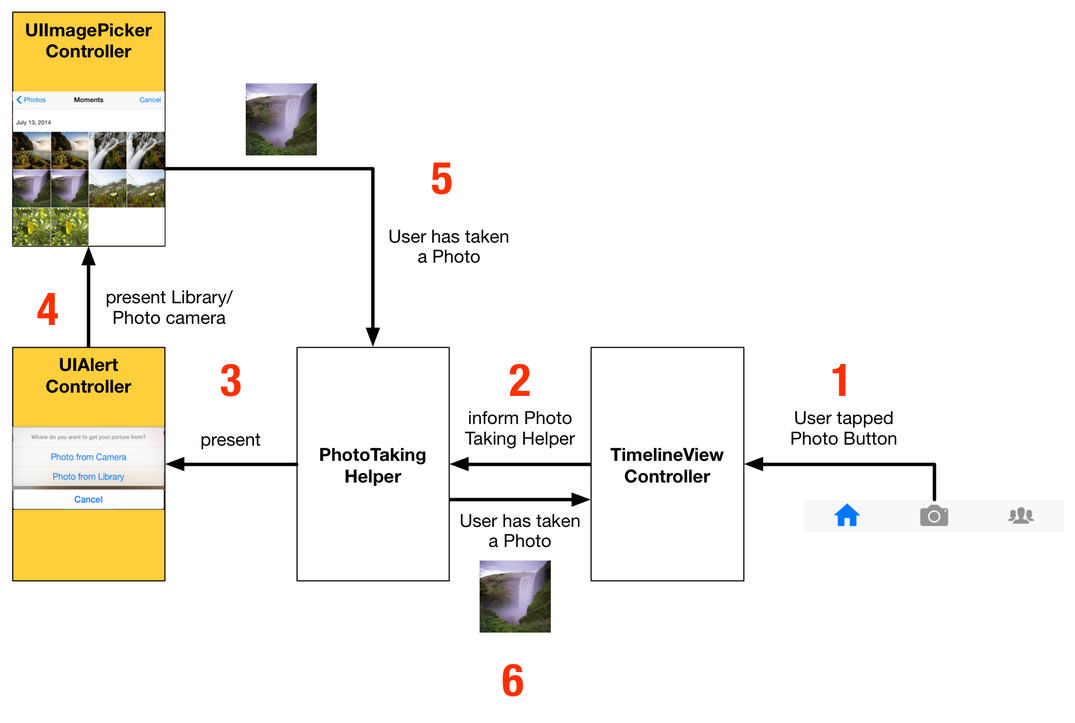
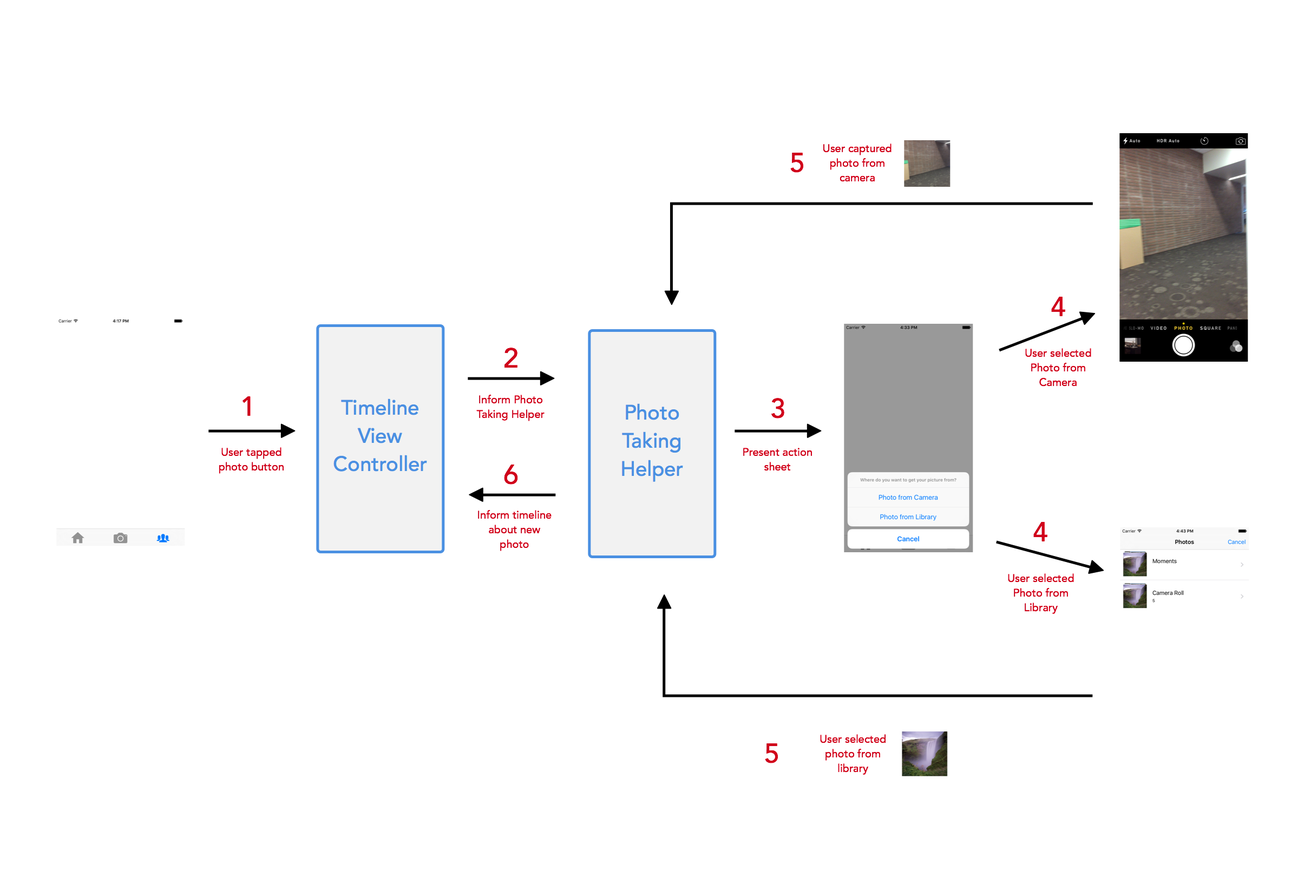
[P7] Update to Xcode7, moderate content reorganization, minor style changes
* remake photo_taking_structure.png
* refocus the 'Structuring the Photo Code' section
* add 'Maintaining Project Structure' section (goal was to make things more modular and have a clear focus)
* change 'Table View' to 'table view'

diff --git a/P7-Taking-Photos/content.md b/P7-Taking-Photos/content.md
@@ -3,18 +3,19 @@ title: "Taking Photos"
 slug: taking-photos
 ---
 
-It's time to implement our very first feature: uploading Photos to Parse! In our App we want to allow the users to upload or take a photo as soon as they tap the camera button in the middle of the Tab Bar.
+It's time to implement our very first feature: uploading photos to Parse! In **Makestagram**, we want to allow the users to upload or take a photo as soon as they tap the camera button in the middle of the tab bar.
 
-Typically a Tab Bar View Controller only allows a user to switch between different View Controllers. We don't want to switch to a View Controller when the button is tapped, instead we want to show an Action Dialog that lets the user take or select a picture:
+Typically a tab bar view controller only allows a user to switch between different view controllers; however, we don't want to switch to a view controller when the button is tapped, instead we want to show an action dialog that lets the user take or select a picture:
 
 ![image](taking_photo.png)
 
-Unfortunately, using a Tab Bar View Controller, we cannot **easily** perform an arbitrary method when one of the Tab Bar Items is selected.
+Unfortunately, using a tab bar view controller, we cannot *easily* perform an arbitrary method when one of the tab bar items is selected.
 
 However, there's a **workaround**.
 
 #Using a Tab Bar Item Like a Button
-Essentially we want to use the Photo Tab Bar Item like a button. When it is tapped we want to call a method to present dialog shown above.
+
+Essentially we want to use the photo tab bar item like a button. When it is tapped, we want to call a method to present the dialog shown above.
 
 One of the ways to accomplish this is to make use of the `UITabBarControllerDelegate` protocol.
 
@@ -24,7 +25,7 @@ That protocol contains a method that is interesting for us:
 
 You can read the full documentation of the method [here](https://developer.apple.com/library/ios/documentation/UIKit/Reference/UITabBarControllerDelegate_Protocol/#//apple_ref/occ/intfm/UITabBarControllerDelegate/tabBarController:shouldSelectViewController:).
 
-Using this method, the Tab Bar View Controller asks its delegate whether or not it should present the View Controller that belongs to the Tab Bar Item that a user just tapped.
+Using this method, the tab bar view controller asks its delegate whether or not it should present the view controller that belongs to the tab bar item that the user just tapped.
 
 **Can you imagine how we could use this method to accomplish our goal?**
 
@@ -33,7 +34,7 @@ One of our classes can become the `delegate` of the `UITabBarViewController` and
 
 Let's implement this solution!
 
-The `TimelineViewController` will be the main View Controller of our app. When a user opens the App, the timeline will be displayed first.
+The `TimelineViewController` will be the main view controller in **Makestagram**. When a user opens the App, the timeline will be displayed first.
 
 That means we can use the `TimelineViewController` as the delegate for the `UITabBarViewController`.
 
@@ -63,7 +64,7 @@ Replace the entire source code in `TimelineViewController.swift` with the follow
 >
       func tabBarController(tabBarController: UITabBarController, shouldSelectViewController viewController: UIViewController) -> Bool {
         if (viewController is PhotoViewController) {
-          println("Take Photo")
+          print("Take Photo")
           return false
         } else {
           return true
@@ -72,36 +73,51 @@ Replace the entire source code in `TimelineViewController.swift` with the follow
 >
     }
 
-What are we doing here? In `viewDidLoad` we are setting the `TimelineViewController` to be the `tabBarController`s delegate. Every `UIViewController` in iOS has the `tabBarController?` property; if the View Controller is presented from a `UITabBarViewController` (as it's the case in our app), this property will store a reference to it.
+What are we doing here? In `viewDidLoad` we are setting the `TimelineViewController` to be the delegate of the `tabBarController`. Every `UIViewController` (which includes all subclasses) in iOS has the `tabBarController?` property; if the view controller is presented from a `UITabBarViewController` (as is the case in **Makestagram**), this property will store a reference to it.
 
 In the second part of this solution, after:
 
     // MARK: Tab Bar Delegate
 
-we implement the relevant protocol method. The protocol method requires us to return a boolean value. If we return `true` the Tab Bar View Controller will behave as usual and present the View Controller that the user has selected. If we return `false` the View Controller will not be displayed and the Tab Bar Item will not be selected - exactly the behavior that we want for the Photo Tab Bar Item.
+we implement the relevant protocol method. The protocol method requires us to return a boolean value. If we return `true` the tab bar will behave as usual and present the view controller that the user has selected. If we return `false` the view controller will not be displayed - exactly the behavior that we want for the Photo Tab Bar Item.
 
-Within the method we check which View Controller is about to be selected.  If the View Controller is a `PhotoViewController` we return `false` and print "Take Photo" to the console. Later we'll replace this line with the actual photo taking code.
+Within the protocol method, we check which view controller is about to be selected.  If the view controller is a `PhotoViewController` we return `false` and print "Take Photo" to the console. Later we'll replace this line with the actual photo taking code.
 
-If the View Controller **isn't** a `PhotoViewController`, we return `true` and let the Tab Bar Controller behave as usual.
+If the view controller **isn't** a `PhotoViewController`, we return `true` and let the tab bar controller behave as usual.
 
 With this code in place, it's time to run the app. You should see the same behavior as in this video:
 
 <video width="100%" controls>
   <source src="https://s3.amazonaws.com/mgwu-misc/SA2015/PhotoButton_small.mov" type="video/mp4">
 
-When you tap the left or the right Tab Bar Item, they are selected. When you tap the middle button, you see our console output instead!
+When you tap the left or the right tab bar item, they are selected. When you tap the middle button, you see our console output instead!
 
 Now we can replace this console output with our actual photo taking code!
 
-#Structuring the Photo Taking Code
+#Structuring the Photo Code
 
-Taking photos is one of the core features of our app! We allow users to take photos with the camera and to pick existing photos from their library. Additionally we will allow users to add filters to their photos.
+Recall from our *Setting Up the App Structure* tutorial that, after deciding on our app's features, we outlined our app's screens and explicitly defined how screens would be connected. In a similar fashion, before diving into the photo code, let's think about what specific photo related features we want to offer and how they will be structured.
 
-As you'll see, implementing this takes quite a bit of code. Instead of putting all of that code into the `TimelineViewController` we should create a separate class that only takes care of photo related features.
+Regarding features, as **Makestagram** is a photo sharing app, users should be able to either upload photos from their existing photo library or capture new photos with the built-in camera.
 
-Keep this in mind when working on your own app: *implementing all of your features directly in a View Controller is the first step towards an extremely messy project!*
+Regarding structure, let's discuss the process, step-by-step:
 
-Before we create that new photo taking class, let's create a new folder for it to keep our project structure tidy.
+![image](photo_taking_structure.png)
+
+1. The user taps the camera button, which triggers an event in the `TimelineViewController`. (Currently, we are logging "Take Photo" to the console during this step.)
+2. The `TimelineViewController` notifies a helper class, called `PhotoTakingHelper`, that the camera button was pressed. (We use the `PhotoTakingHelper` to handle all of our photo related features to help make our code more modular and easier to read.)
+3. The `PhotoTakingHelper` presents the popover that allows the user to choose between taking a photo with the camera or picking one from the library. (The popover is implemented as a `UIAlertController`, a standard iOS component.)
+4. Once the user has selected one of the two options, we present a `UIImagePickerController`, another standard iOS component. (The `UIImagePickerController` handles the actual image picking - either by letting the user take a picture, or by letting them pick one from their library)
+5. Once the user is finished, the selected image gets returned to the `PhotoTakingHelper`
+6. The `PhotoTakingHelper` notifies the `TimelineViewController` that a photo has been picked, and returns the image to the `TimelineViewController`.
+
+As you can see, there are many steps to getting our photo features up and running. If we skipped diagramming our structure, and went straight to coding, we would probably make the mistake of putting all of our code into the `TimelineViewController` or `PhotoViewController`, which would lead to an *extremely messy project*!
+
+When working on your own apps, remember to use helper classes to handle distinct features. For instance, a `PhotoTakingHelper` to handle all image capturing or a `MicrophoneRecordingHelper` to record all sound from the microphone.
+
+#Maintaining Project Structure
+
+Before we jump into implementing our photo code, let's create a new folder for our `PhotoTakingHelper` class to keep our project structure tidy.
 
 > [action]
 Open the folder that contains your Xcode project in Finder: and create a new folder called *PhotoTaking*. It should be on the same level as the *ViewController* folder:
@@ -111,41 +127,28 @@ Then add this new folder to your Xcode project:
 <video width="100%" controls>
   <source src="https://s3.amazonaws.com/mgwu-misc/SA2015/AddPhotoFolder_small.mov" type="video/mp4">
 
-You should always add new folders with this two-step process. If you create a new group directly in Xcode, that will not automatically create a new folder on your file system. That results in Xcode projects that have a structure that is different from the folder structure - another potential way of creating messy projects.
+You should always add new folders with this two-step process. If you create a new group directly in Xcode, it will not automatically create a new folder on your file system. That results in Xcode projects that have a structure that is different from the folder structure - another potential way of creating messy projects.
 
-Now we can add our new Source Code File to the *PhotoTaking* group.
+We can now add our new source code file to the *PhotoTaking* group.
 
 > [action]
 >
-1. Create a new Source Code File within the *PhotoTaking* group
+1. Create a new source code file within the *PhotoTaking* group
 2. Name this class *PhotoTakingHelper* and make it a subclass of *NSObject* (we will discuss why this is necessary later on): ![](photo_taking_helper_class.png)
 
-Before we dive into writing code, let's discuss how we're going to structure our Photo Taking code.
-
-There are multiple classes and steps involved in taking a photo:
-![image](photo_taking_structure.png)
-
-Let's discuss the process, step by step:
-
-1. The photo taking starts when a user taps the photo button in the Tab Bar. This triggers an event in the `TimelineViewController`. We have already implemented this step; currently we are logging "Take Photo" to the console.
-2. The `TimelineViewController` creates a `PhotoTakingHelper`. The `PhotoTakingHelper` will handle the rest of the process and return a photo to the `TimelineViewController` once the user has picked one (this happens in Step 6).
-3. The `PhotoTakingHelper` presents the popover that allows the user to choose between taking a photo with the camera or picking one from the library. This popover is implemented as a `UIAlertController` - an iOS standard component.
-4. Once the user has selected one of the two options, we present a `UIImagePickerController` another iOS system component. This `UIImagePickerController` handles the actual image picking (either by letting the user take a picture, or by letting them pick one from their library)
-5. Once the user is finished, the selected image gets returned to the `PhotoTakingHelper`
-6. The `PhotoTakingHelper` returns that image to the `TimelineViewController`.
-
-Now that we have a plan, we can start implementing this feature!
+Now that we have a plan and a place to put our code, let's start implementing this feature!
 
 ##Implementing the PhotoTakingHelper
 
-Our `PhotoTakingHelper` will have two main responsibilities:
+Our `PhotoTakingHelper` will have three main responsibilities:
 
-1. Presenting the Popover and the Camera / Photo Library
-2. Returning the image that the user has taken / selected
+1. Presenting the popover to allow the user to choose between taking a new photo or selecting one from the photo library
+2. Depending on the user's selection, presenting the camera or photo library
+2. Returning the image that the user has taken or selected
 
-To implement the first responsibility the `PhotoTakingHelper` will need a reference to a `UIViewController`. In iOS only View Controllers can present other View Controllers. The `PhotoTakingHelper` is a simple `NSObject` not a `UIViewController`, so it isn't able to present other View Controllers. We will implement the initializer of the `PhotoTakingHelper` to require a reference to a `UIViewController`.
+The first and second responsibilities of the `PhotoTakingHelper` require it to present a `UIAlertController` and 'UIImagePickerController', respectively. However, in iOS, only view controllers can present other view controllers, and the `PhotoTakingHelper` is a simple `NSObject`, not a `UIViewController`. To enable view controller presentation inside the `PhotoTakingHelper` class, we will implement the initializer of the `PhotoTakingHelper` to require a reference to a `UIViewController`.
 
-To implement the second responsibility the `PhotoTakingHelper` will need to have a way to communicate with the `TimelineViewController` - as shown in Step 6 of our outline above. For this we could use the concept of delegation (on the previous page we used delegation to receive information from the `UITabBarController`). A more convenient solution for this specific case is using a *Callback*. A *Callback* is basically a reference to a function. When initializing the `PhotoTakingHelper` inside of the *TimelineViewController* we will provide it with a callback function. As soon as the `PhotoTakingHelper` has selected an image, it will call that *Callback* function and provide the selected image to the *TimelineViewController*.
+To implement the third responsibility of the `PhotoTakingHelper` we will need to have a way to communicate with the `TimelineViewController` - as shown in Step 6 of our outline above. For this we could use the concept of delegation (on the previous page we used delegation to receive information from the `UITabBarController`). A more convenient solution for this specific case is using a *Callback*. A *Callback* is basically a reference to a function. When initializing the `PhotoTakingHelper` inside of the *TimelineViewController* we will provide it with a callback function. As soon as the `PhotoTakingHelper` has selected an image, it will call that *Callback* function and provide the selected image to the *TimelineViewController*.
 
 Let's get started with building the `PhotoTakingHelper`!
 
@@ -162,7 +165,7 @@ Replace the entire content of `PhotoTakingHelper.swift` with the following code:
 >
     class PhotoTakingHelper : NSObject {
 >
-      /** View controller on which AlertViewController and UIImagePickerController are presented */
+      // View controller on which AlertViewController and UIImagePickerController are presented
       weak var viewController: UIViewController!
       var callback: PhotoTakingHelperCallback
       var imagePickerController: UIImagePickerController?
@@ -182,15 +185,15 @@ Replace the entire content of `PhotoTakingHelper.swift` with the following code:
 >
     }
 
-Let's discuss this code. In the first line after `import UIKit` we are declaring a `typealias`. Using the `typealias` keyword we can provide a function signature with a name. In this case we are saying that a function of type `PhotoTakingHelperCallback` takes an `UIImage?` as parameter and returns `Void`. This means: any function that wants to be the callback of the `PhotoTakingHelper` needs to have exactly this signature.
+Let's discuss this code. In the first line after `import UIKit` we are declaring a `typealias`. Using the `typealias` keyword we can provide a function signature with a name. In this case we are saying that a function of type `PhotoTakingHelperCallback` has one parameter (a `UIImage?`) and returns `Void`. This means that any function that wants to be the callback of the `PhotoTakingHelper` needs to have exactly this signature.
 
-`PhotoTakingHelper` has three properties. The first one `viewController` stores a `weak` reference to a `viewController`. As we discussed earlier, this reference is necessary because the `PhotoTakingHelper` needs a `UIViewController` on which it can present other View Controllers. It is a `weak` reference, since the `PhotoTakingHelper` does not own the referenced View Controller.
+`PhotoTakingHelper` has three properties. The first one, `viewController`, stores a `weak` reference to a `UIViewController`. As we discussed earlier, this reference is necessary because the `PhotoTakingHelper` needs a `UIViewController` on which it can present other view controllers. It is a `weak` reference because the `PhotoTakingHelper` does not own the referenced view controller.
 
-Additionally we store the `callback` function and provide a property to store an `UIImagePickerController` (which we will use a little bit later).
+Additionally, we store the `callback` function and provide a property to store a `UIImagePickerController` (which we will use a little bit later).
 
-The initializer of this class receives the View Controller on which we will present other View Controllers and the callback that we will call as soon as a user has picked an image.
+The initializer of this class receives the view controller on which we will present other view controllers and the callback that we will call as soon as a user has picked an image.
 
-When the class is entirely initialized we immediately call `showPhotoSourceSelection()`. The method is still empty right now, later it will present the dialog that allows user to choose between their camera and their photo library.
+When the class is entirely initialized we immediately call `showPhotoSourceSelection()`. The method is empty right now, but later it will present the dialog that allows users to choose between their camera and their photo library.
 
 Because we call `showPhotoSourceSelection()` directly from the initializer, the dialog will be presented as soon as we create an instance of `PhotoTakingHelper`.
 
@@ -198,7 +201,7 @@ Because we call `showPhotoSourceSelection()` directly from the initializer, the 
 
 To implement the selection dialog we will use the [`UIAlertViewController`](https://developer.apple.com/library/ios/documentation/UIKit/Reference/UIAlertController_class/index.html) class. It allows us to choose a title for the popup and add multiple options. We want to add two options: photo library and camera.
 
-However, we need to keep one thing in mind: we want to run our App on the iOS Simulator during development and the Simulator doesn't have a camera! `UIImagePickerController` provides us with a nice way to check whether a camera is available or not. We'll use that feature to decide whether or not to add the camera option to our popup.
+However, we need to keep one thing in mind: we want to run our app on the iOS Simulator during development and the simulator doesn't have a camera! `UIImagePickerController` provides us with a nice way to check whether a camera is available or not. We'll use that feature to decide whether or not to add the camera option to our popup.
 
 Let's add the code for the popup to `PhotoTakingHelper`:
 
@@ -212,6 +215,12 @@ Replace the empty implementation of `showPhotoSourceSelection()` with the follow
         let cancelAction = UIAlertAction(title: "Cancel", style: .Cancel, handler: nil)
         alertController.addAction(cancelAction)
 >
+        let photoLibraryAction = UIAlertAction(title: "Photo from Library", style: .Default) { (action) in
+          // do nothing yet...
+        }
+>
+        alertController.addAction(photoLibraryAction)
+>
         // Only show camera option if rear camera is available
         if (UIImagePickerController.isCameraDeviceAvailable(.Rear)) {
           let cameraAction = UIAlertAction(title: "Photo from Camera", style: .Default) { (action) in
@@ -221,29 +230,21 @@ Replace the empty implementation of `showPhotoSourceSelection()` with the follow
           alertController.addAction(cameraAction)
         }
 >
-        let photoLibraryAction = UIAlertAction(title: "Photo from Library", style: .Default) { (action) in
-          // do nothing yet...
-        }
->
-        alertController.addAction(photoLibraryAction)
->
         viewController.presentViewController(alertController, animated: true, completion: nil)
       }
 
-In the first line we set up the the `UIAlertController` by providing it with a `message`
+In the first line, we set up the `UIAlertController` by providing it with a `message`
 and a `preferredStyle`. The `UIAlertController` can be used to present different types of popups. By choosing the `.ActionSheet` option, we create a popup that gets displayed from the bottom edge of the screen.
 
-After the initial set up, we add different `UIAlertAction`s to the Alert Controller. Each action will result in one button on the popup.
+After the initial set up, we add different `UIAlertAction`s to the alert controller, each action will result in one additional button on the popup.
 
-The first one is the default *Cancel* action; you should add this one to almost all of your Alert Controllers. It will add a "Cancel" button that allows the user to close the popup without any action.
+The first action is the default *Cancel* action; you should add this one to almost all of your alert controllers. It will add a "Cancel" button that allows the user to close the popup without any action.
 
-Then we create actions for our two different options. First, we check if the current device has a rear camera by using the `isCameraDeviceAvailable(_:UIImagePickerControllerCameraDevice)` method.
+The second option allows the user to pick an image from the library. We create a `UIAlertAction` for the library and add it to the `UIAlertController`. (The body of the action is empty right now, but we will add the code in the next section.)
 
-If the rear camera is available, we add an action to the Alert Controller that allows the user to choose to take a photo with that camera. The body of the action is left empty for now; in the next step we will fill in the code that brings up the camera.
+The third action, allowing the user to take a new photo, is special because it should only be displayed if the device has access to a camera. We check if the current device has a rear camera by using the `isCameraDeviceAvailable(_:UIImagePickerControllerCameraDevice)` method. If the rear camera is available, we add an action to the alert controller that allows the user to take a new photo. (We will add code to the body of this action in the next section as well.)
 
-As a last option, we allow the user to pick an image from the library. We create an `UIAlertAction` for the library and add it to the `UIAlertController`. This action also doesn't do anything yet, we'll add the code in the next section.
-
-In the very last line, we present the `alertController`. As we discussed earlier, View Controllers can only be presented from other View Controllers. We use the reference that we've stored in the `viewController` property and call the `presentViewController` method on it. Now the popup will be displayed on whichever View Controller is stored in the `viewController` property!
+In the very last line, we present the `alertController`. As we discussed earlier, view controllers can only be presented from other view controllers. We use the reference that we've stored in the `viewController` property and call the `presentViewController` method on it. Now the popup will be displayed on whichever view controller is stored in the `viewController` property!
 
 None of this code will run at this point - to test it we need to connect it to the `TimelineViewController`. Let's do that next! After we've connected the `TimelineViewController` and the `PhotoTakingHelper`, we will come back to complete this code so that we actually present the camera or the photo library when one of the two options is selected.
 
@@ -251,10 +252,10 @@ None of this code will run at this point - to test it we need to connect it to t
 
 Time to switch back to the `TimelineViewController`. Currently we are printing a string to the console whenever the camera button is tapped; now we want to create an instance of a `PhotoTakingHelper` that will display our popup.
 
-First, let's change the Tab Bar related code:
+First, let's change the tab bar related code:
 
 > [action]
-Change the the Tab Bar related code to call the `takePhoto` method, instead of printing to the console:
+Change the the tab bar related code to call the `takePhoto` method, instead of printing to the console:
 >
     func tabBarController(tabBarController: UITabBarController, shouldSelectViewController viewController: UIViewController) -> Bool {
       if (viewController is PhotoViewController) {
@@ -279,11 +280,11 @@ Add the `takePhoto` method to the `TimelineViewController` class:
 
 Within the `takePhoto` method we're creating an instance of `PhotoTakingHelper`. We're assigning that instance to the `photoTakingHelper` property (which we'll create in a second).
 
-As we know, the initializer of the `PhotoTakingHelper` takes two parameters: the View Controller on which the popup should be presented and the callback that should run as soon as a photo has been selected.
+As we know, the initializer of the `PhotoTakingHelper` takes two parameters: the view controller on which the popup should be presented and the callback that should run as soon as a photo has been selected.
 
-As the View Controller we pass `self.tabBarController`. The Tab Bar Controller is the Root View Controller of our application - typically you want to present most Popups directly on the Root View Controller.
+As the view controller we pass `self.tabBarController`. The tab bar controller is the Root View Controller of our application - typically you want to present most popups directly on the Root View Controller.
 
-As a callback we pass a *Closure*. A closure is basically a function without a name.
+As a callback we pass a *closure*. A closure is basically a function without a name.
 
 This part of the code is the closure:
 
@@ -291,9 +292,9 @@ This part of the code is the closure:
       // don't do anything, yet...
     }
 
-The entire closure is enclosed in curly braces. It starts with the list of parameters in parentheses. Our callback receives a `UIImage?` from the `PhotoTakingHelper`. The `in` keyword marks the beginning of the actual code of the closure - for now we only have a comment in here.
+The entire closure is enclosed in curly braces. It starts with the list of parameters in parentheses. Our callback receives a `UIImage?` from the `PhotoTakingHelper`. The `in` keyword marks the beginning of the actual code of the closure - for now we only have a comment in there.
 
-Whenever the `PhotoTakingHelper` has received an image, it will call this closure. This is where we will implement the Photo upload later on.
+Whenever the `PhotoTakingHelper` has received an image, it will call this closure. This is where we will implement the photo upload later on.
 
 There's one last detail to note: the closure is outside of the argument list (the pair of parentheses after the class name) of the constructor!
 
@@ -311,7 +312,7 @@ Without a trailing closure the call to the initializer would look like this:
 
 Using trailing closures can make our code a little bit more readable because we don't need a closing parenthesis after the closing curly braces of the closure. Feel free to choose whichever option you prefer!
 
-One last step before are ready to test the interaction between the `TimelineViewController` and the `PhotoTakingHelper`.
+There is one last thing we have to do before we are ready to test the interaction between the `TimelineViewController` and the `PhotoTakingHelper`.
 
 > [action]
 Add the property definition for `photoTakingHelper` to the top of the `TimelineViewController` class:
@@ -328,9 +329,9 @@ Well done! At this point you should have a basic understanding of how informatio
 
 #Implementing the Photo Taking
 
-Now that we've successfully connected the `PhotoTakingHelper` with the `TimelineViewController` we can implement the actual Photo Taking code.
+Now that we've successfully connected the `PhotoTakingHelper` with the `TimelineViewController` we can implement the actual photo taking code.
 
-Let's add  a method to the `PhotoTakingHelper` that presents the `UIImagePickerController` (you might remember, this is the system component that will allow the user to take pictures!).
+Let's add a method to the `PhotoTakingHelper` that presents the `UIImagePickerController` (you might remember, this is the system component that will allow the user to take pictures!).
 
 > [action]
 Add the `showImagePickerController` method to the `PhotoTakingHelper` class:
@@ -341,7 +342,7 @@ Add the `showImagePickerController` method to the `PhotoTakingHelper` class:
       self.viewController.presentViewController(imagePickerController!, animated: true, completion: nil)
     }
 
-In the first line, this method creates a `UIImagePickerController`. In the second line we set the `sourceType` of that controller. Depending on the `sourceType` the `UIImagePickerController` will activate the camera and display a photo taking overlay - or will show the users photo library. Our `showImagePickerController` method takes the `sourceType` as an argument and hands it on to the `imagePickerController` - that allows the caller of this method to specify whether the camera or the photo library should be used as an image source.
+In the first line, this method creates a `UIImagePickerController`. In the second line, we set the `sourceType` of that controller. Depending on the `sourceType` the `UIImagePickerController` will activate the camera and display a photo taking overlay - or will show the user's photo library. Our `showImagePickerController` method takes the `sourceType` as an argument and hands it on to the `imagePickerController` - that allows the caller of this method to specify whether the camera or the photo library should be used as an image source.
 
 Once the `imagePickerController` is initialized and configured, we present it.
 
@@ -369,7 +370,7 @@ Change the following section within `showPhotoSourceSelection()` so that the `sh
 
 The changes are pretty simple. We call `showImagePickerController` and pass either `.PhotoLibrary` or `.Camera` as argument - based on the user's choice.
 
-Now you should be able to see an `UIImagePickerController` pop up when you select the "Photo from Library" button in the app:
+Now you should be able to see a `UIImagePickerController` pop up when you select the "Photo from Library" button in the app:
 
 <video width="50%" controls>
   <source src="https://s3.amazonaws.com/mgwu-misc/SA2015/PhotoSelection_small.mov" type="video/mp4">
@@ -378,7 +379,7 @@ Now we can let the user pick an image. However, currently we don't get informed 
 
 #Closing the Loop
 
-To gain access to the selected image we will use a pattern with which you should be familiar by now: _Delegation_. The `UIImagePickerController` allows a delegate to listen for selected images and other events.
+To gain access to the selected image, we will use a pattern with which you should be familiar with by now: _Delegation_. The `UIImagePickerController` allows a delegate to listen for selected images and other events.
 
 Take a short look at the documentation for the [`UIImagePickerControllerDelegate`](https://developer.apple.com/library/ios/documentation/UIKit/Reference/UIImagePickerControllerDelegate_Protocol/) protocol.
 
@@ -431,25 +432,25 @@ Add the extension following extension to _PhotoTakingHelper.swift_ - always make
 
 We don't have too much code in this extension. We implement two different delegate methods. One is called when an image is selected, the other is called when the cancel button is tapped.
 
-Within `imagePickerControllerDidCancel` we simply hide the Image Picker Controller by calling `dismissViewControllerAnimated` on `viewController`.
+Within `imagePickerControllerDidCancel` we simply hide the image picker controller by calling `dismissViewControllerAnimated` on `viewController`.
 
-Before we became the delegate of the Image Picker Controller, it was automatically hidden as soon as a user hit the cancel button or selected an image. Now that we are the delegate, we are responsible for hiding it.
+Before we became the delegate of the image picker controller, it was automatically hidden as soon as a user hit the cancel button or selected an image. Now that we are the delegate, we are responsible for hiding it.
 
-The `imagePickerController(_:, didFinishPickingImage:)` method is also pretty simple. First we hide the Image Picker Controller, then we call the `callback` and hand it the `image` that has been selected as an argument. After this line runs, the `TimelineViewController` will have received the image through its callback closure.
+The `imagePickerController(_:, didFinishPickingImage:)` method is also pretty simple. First we hide the image picker controller, then we call the `callback` and hand it the `image` that has been selected as an argument. After this line runs, the `TimelineViewController` will have received the image through its callback closure.
 
 Let's test if that is actually working correctly.
 
 > [action]
 Open _`TimelineViewController.swift`_ and replace the comment in our `PhotoTakingHelper` callback method with a print line statement:
 >
-    println("received a callback")
+    print("received a callback")
 >
-Then set a breakpoint in that line. Next, run the app and select an image using the Image Picker.
+Then set a breakpoint in that line. Next, run the app and select an image using the image picker.
 The debugger should halt on the breakpoint and you should see that the callback receives a value for the `image` parameter:
 >
 ![image](callback_successful.png)
 
-If the value in the red circle is showing anything different than `0x0000000000000000` (which would mean the `image` argument is `nil`) then everything is working! We now have access to the selected Image inside of the `TimelineViewController`.
+As long as the value in the red circle is **not** showing `0x0000000000000000` (which would mean the `image` argument is `nil`), then everything is working! We now have access to the selected image inside of the `TimelineViewController`.
 
 Here's a short reminder of all the information flow you have implemented in this step:
 
